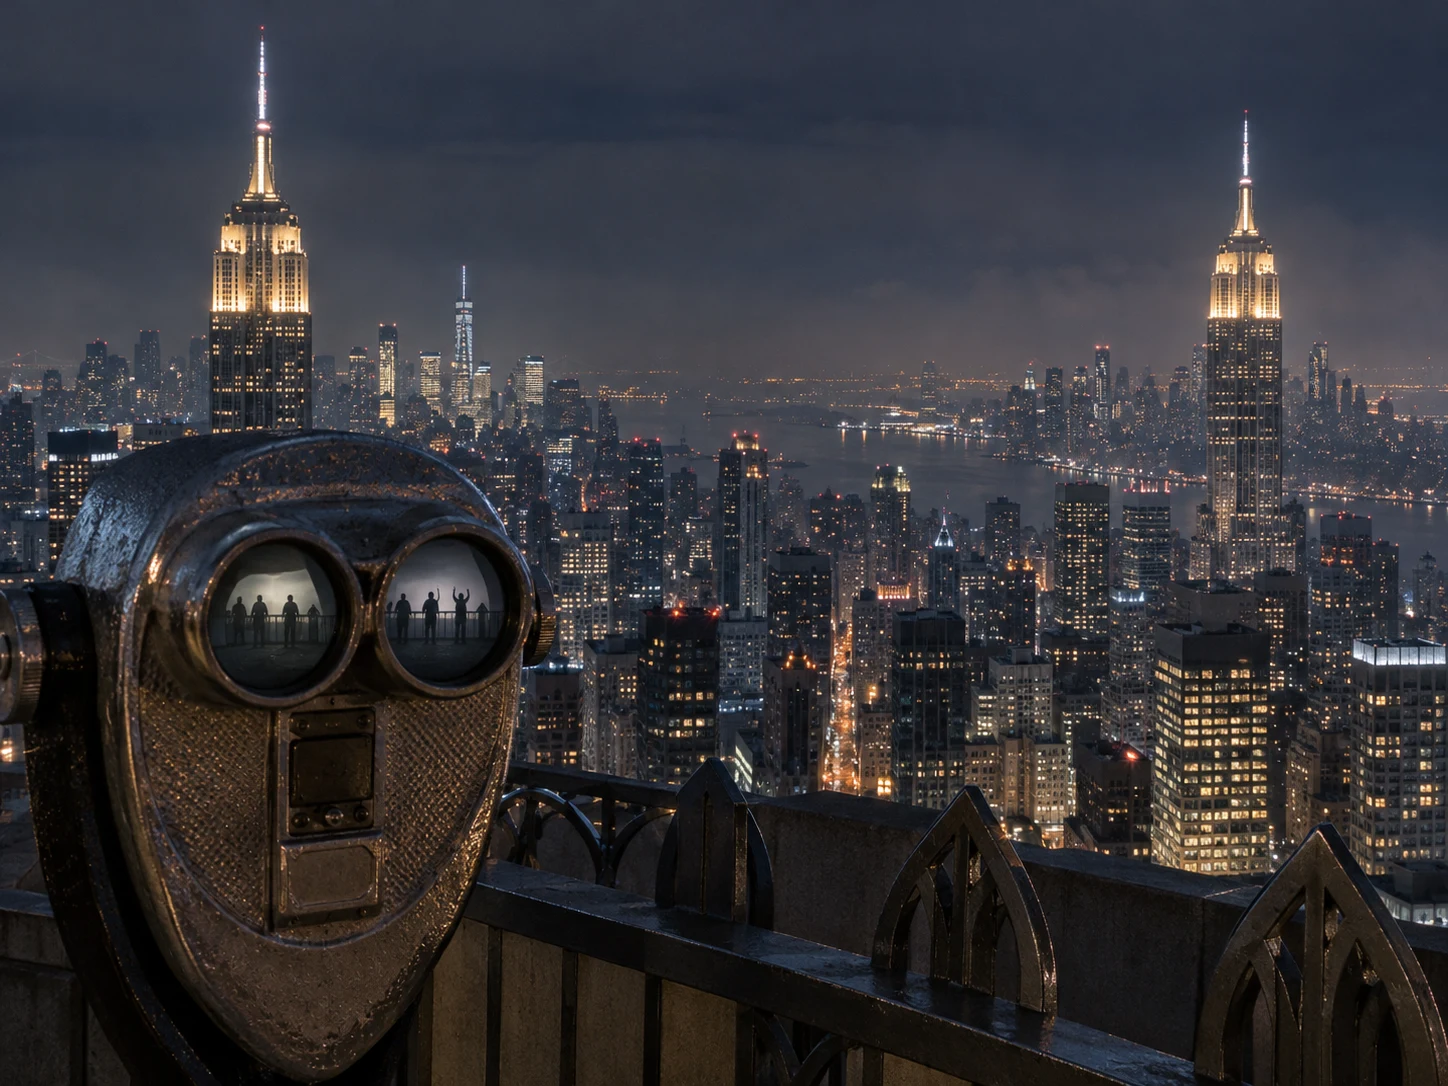
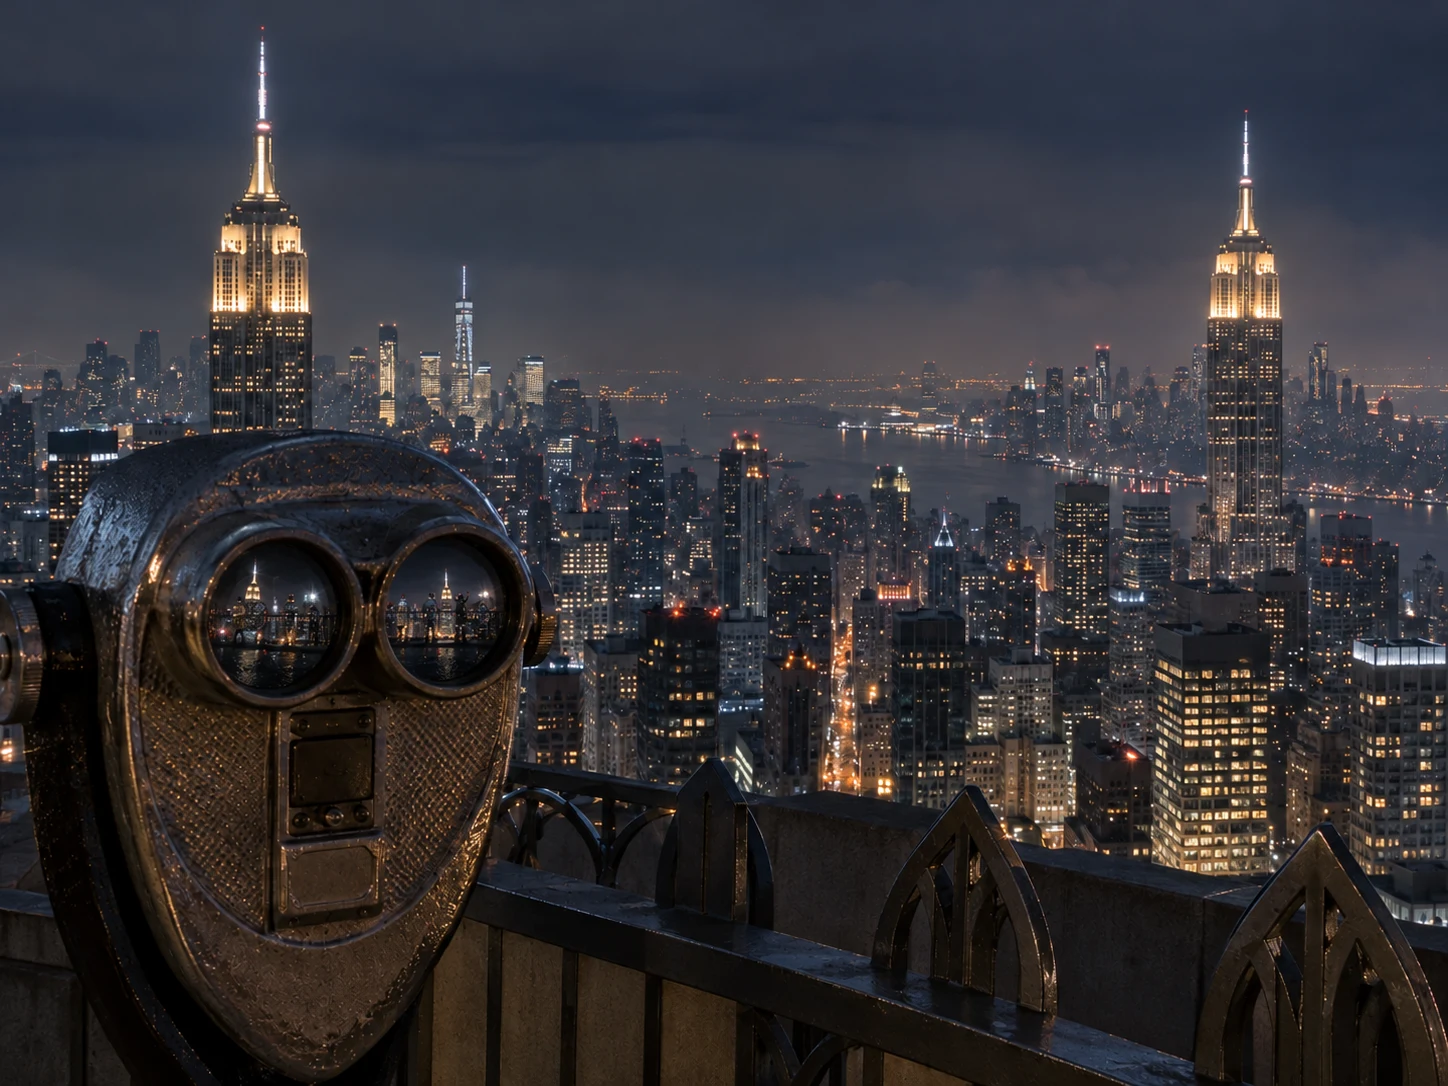
feat: expand October scene photography

diff --git a/lib/scene-visuals.ts b/lib/scene-visuals.ts
@@ -27,7 +27,7 @@ const DEFAULT_SCENE_VISUAL: SceneVisual = {
 const SCENE_VISUALS: Record<string, SceneVisual> = {
     "met-temple-dendur-reflections": {
         image: "/images/incidents/met-temple-dendur.webp",
-        imageAlt: "The empty Temple of Dendur gallery at night with visitors visible only in the reflecting pool",
+        imageAlt: "The empty Temple of Dendur gallery and reflecting pool at night",
         imagePosition: "center 62%",
         mobileImagePosition: "58% center",
         routeLabel: "UPPER EAST SIDE / GALLERY 131",
@@ -60,6 +60,90 @@ const SCENE_VISUALS: Record<string, SceneVisual> = {
         folioVariant: "service",
         marginNote: "they waved before anyone raised a hand",
         hiddenNote: "The binocular counter recorded two observation decks.",
+    },
+    "grand-central-yesterday-train": {
+        image: "/images/incidents/grand-central-terminal.webp",
+        imageAlt: "An empty Grand Central Terminal at night with a train waiting beyond the concourse",
+        imagePosition: "center center",
+        mobileImagePosition: "61% center",
+        routeLabel: "GRAND CENTRAL / MAIN CONCOURSE",
+        folioTitle: "DEPARTURE RECORD",
+        folioDetail: "ARRIVAL DATE · PREVIOUS DAY",
+        folioVariant: "service",
+        marginNote: "the platform clock is still moving backward",
+        hiddenNote: "The train appeared before its track was assigned.",
+    },
+    "nypl-tomorrow-returns": {
+        image: "/images/incidents/nypl-return-slot.webp",
+        imageAlt: "Returned books and face-down photographs beside a brass library return slot",
+        imagePosition: "center 58%",
+        mobileImagePosition: "42% center",
+        routeLabel: "FIFTH AVENUE / RETURN DESK",
+        folioTitle: "RETURN SLIP",
+        folioDetail: "DUE DATE · TOMORROW",
+        folioVariant: "ticket",
+        marginNote: "none of these books were checked out",
+        hiddenNote: "Every photograph was warm when it reached the desk.",
+    },
+    "central-park-bow-bridge-reflection": {
+        image: "/images/incidents/central-park-bow-bridge.webp",
+        imageAlt: "An empty Bow Bridge and its reflection in the lake at midnight",
+        imagePosition: "center center",
+        mobileImagePosition: "50% center",
+        routeLabel: "CENTRAL PARK / BOW BRIDGE",
+        folioTitle: "CROSSING LOG",
+        folioDetail: "MIDNIGHT · REFLECTION DELAY",
+        folioVariant: "record",
+        marginNote: "the water kept the earlier crossing",
+        hiddenNote: "The bridge was empty when the second reflection stopped.",
+    },
+    "nyc-311-unclaimed-resident": {
+        image: "/images/incidents/nyc-311-hotline.webp",
+        imageAlt: "An empty municipal call center at night with one telephone off the hook",
+        imagePosition: "center center",
+        mobileImagePosition: "70% center",
+        routeLabel: "NYC 311 / NIGHT DESK",
+        folioTitle: "CALL RECORD",
+        folioDetail: "CATEGORY ADDED · SOURCE UNKNOWN",
+        folioVariant: "service",
+        marginNote: "the line stayed open after the desk emptied",
+        hiddenNote: "The call duration matches the time the apartment door was open.",
+    },
+    "brooklyn-bridge-split-path": {
+        image: "/images/incidents/brooklyn-bridge-split.webp",
+        imageAlt: "The empty Brooklyn Bridge walkway splitting into two identical paths at night",
+        imagePosition: "center center",
+        mobileImagePosition: "50% center",
+        routeLabel: "BROOKLYN BRIDGE / MIDSPAN",
+        folioTitle: "PATH RECORD",
+        folioDetail: "TWO ROUTES · ONE MAPPED",
+        folioVariant: "record",
+        marginNote: "both paths were wet before the rain",
+        hiddenNote: "Only the left-hand railing appears in the maintenance log.",
+    },
+    "flushing-karaoke-fifth-voice": {
+        image: "/images/incidents/flushing-karaoke.webp",
+        imageAlt: "An empty karaoke room with five microphones arranged on the table",
+        imagePosition: "center 62%",
+        mobileImagePosition: "54% center",
+        routeLabel: "FLUSHING / PRIVATE ROOM 05",
+        folioTitle: "SONG QUEUE",
+        folioDetail: "FOUR GUESTS · FIVE CHANNELS",
+        folioVariant: "ticket",
+        marginNote: "channel five was already live",
+        hiddenNote: "The extra microphone never appeared on the room invoice.",
+    },
+    "roosevelt-island-tram-third-station": {
+        image: "/images/incidents/roosevelt-island-tram.webp",
+        imageAlt: "An empty Roosevelt Island tram facing an impossible station above the East River",
+        imagePosition: "center center",
+        mobileImagePosition: "50% center",
+        routeLabel: "EAST RIVER / AERIAL TRAM",
+        folioTitle: "TRANSFER NOTICE",
+        folioDetail: "THIRD STOP · NO PLATFORM ID",
+        folioVariant: "service",
+        marginNote: "the cable map ends before the new station",
+        hiddenNote: "The doors unlocked while the car was still above the river.",
     },
     "14th-street-empty-train": {
         image: "/images/incidents/14th-street-station.webp",

diff --git a/public/images/incidents/README.md b/public/images/incidents/README.md
@@ -11,6 +11,13 @@ photographs from third-party websites.
 | `met-temple-dendur.webp` | October 16 — The Met, Temple of Dendur |
 | `broadway-theater.webp` | October 17 — Broadway Theater |
 | `empire-state-building.webp` | October 18 — Empire State Building |
+| `grand-central-terminal.webp` | October 19 — Grand Central Terminal |
+| `nypl-return-slot.webp` | October 20 — New York Public Library |
+| `central-park-bow-bridge.webp` | October 21 — Central Park, Bow Bridge |
+| `nyc-311-hotline.webp` | October 22 — NYC 311 Hotline |
+| `brooklyn-bridge-split.webp` | October 23 — Brooklyn Bridge |
+| `flushing-karaoke.webp` | October 24 — Flushing Karaoke |
+| `roosevelt-island-tram.webp` | October 25 — Roosevelt Island Tram |
 | `staten-island-ferry.webp` | Harbor, ferry, tram, and waterfront incidents |
 | `butler-library.webp` | Butler Library and late-night institutional interiors |
 | `14th-street-station.webp` | Subway, tunnel, and rail incidents |
